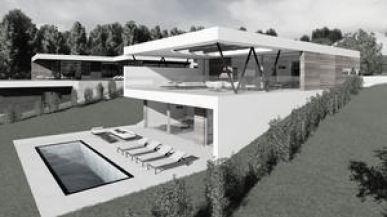
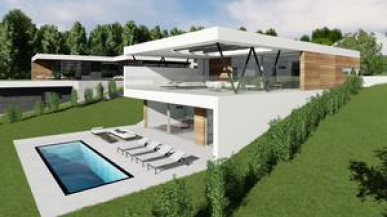
Hover Archi

diff --git a/architecture/architecture.html b/architecture/architecture.html
@@ -90,9 +90,11 @@
             <h1 class="another--archi--title">Similar Project</h1>
 
             <div class="archi--card--holder d-flex justify-content-between">
-                <div class="archi--card col"><img class="anoter--archi--img" src="../img/another--architec1.png" alt="Another Project"></div>
-                <div class="archi--card col"><img class="anoter--archi--img" src="../img/another--architec2.png" alt="Another Project"></div>
-                <div class="archi--card col"><img class="anoter--archi--img" src="../img/another--architec3.png" alt="Another Project"></div>
+
+                <div class="archi--card left col"><a href=""><img class="another--archi--img" src="../img/another--architec1.png" alt="Another Project"></a></div>
+                <div class="archi--card col"><a href=""><img class="another--archi--img" src="../img/another--architec2.png" alt="Another Project"></a></div>
+                <div class="archi--card right col"><a href=""><img class="another--archi--img" src="../img/another--architec3.png" alt="Another Project"></a></div>
+                
             </div>
         </div>
         

diff --git a/css/archi.css b/css/archi.css
@@ -108,3 +108,24 @@
 
     margin-bottom: 5.5rem;
 }
+
+.archi--card.left{
+    margin-right: 1.25rem;
+}
+
+.archi--card.right{
+    margin-left: 1.25rem;
+}
+
+.another--archi--img{
+    width: 100%;
+    -webkit-filter: grayscale(100%);
+    filter: grayscale(100%);
+
+    transition: 0.7s;
+}
+
+.another--archi--img:hover{
+    -webkit-filter: grayscale(0%);
+    filter: grayscale(0%);
+}
